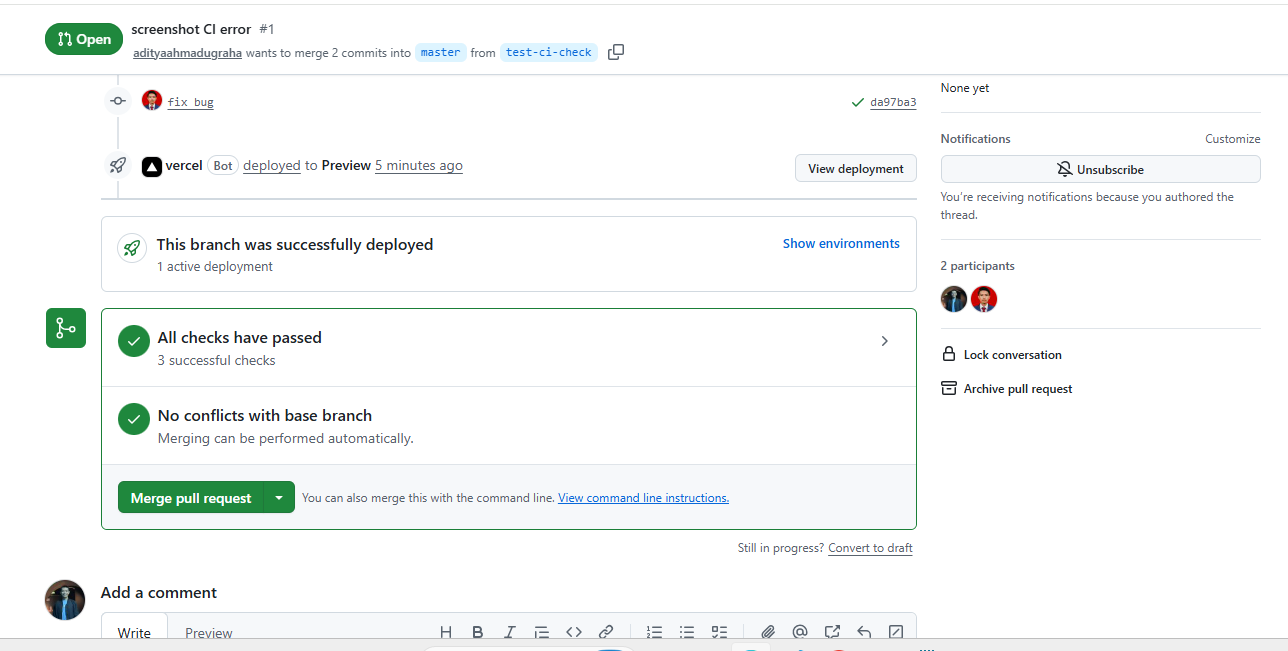
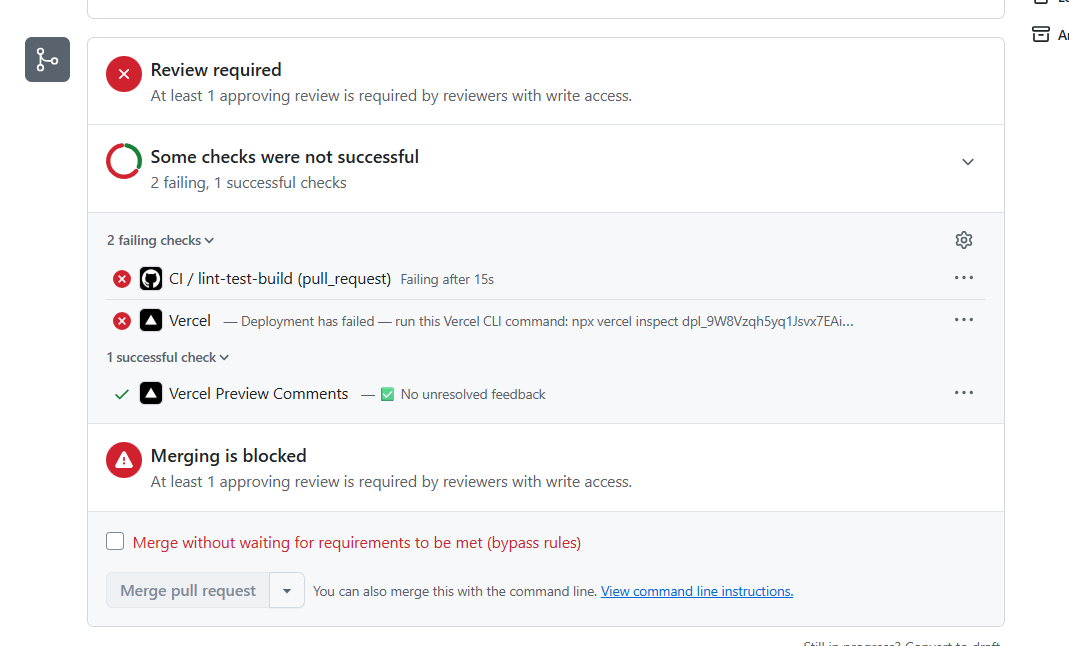
final

diff --git a/src/pages/LoginPage.jsx b/src/pages/LoginPage.jsx
@@ -22,7 +22,6 @@ function LoginPage() {
     if (result.success) {
       navigate('/');
     } else {
-      add error
       setSubmitError(result.message);
     }
   };

diff --git a/src/components/VoteButtons.test.jsx b/src/components/VoteButtons.test.jsx
@@ -89,3 +89,5 @@ describe('VoteButtons component', () => {
   });
 });
 
+
+
